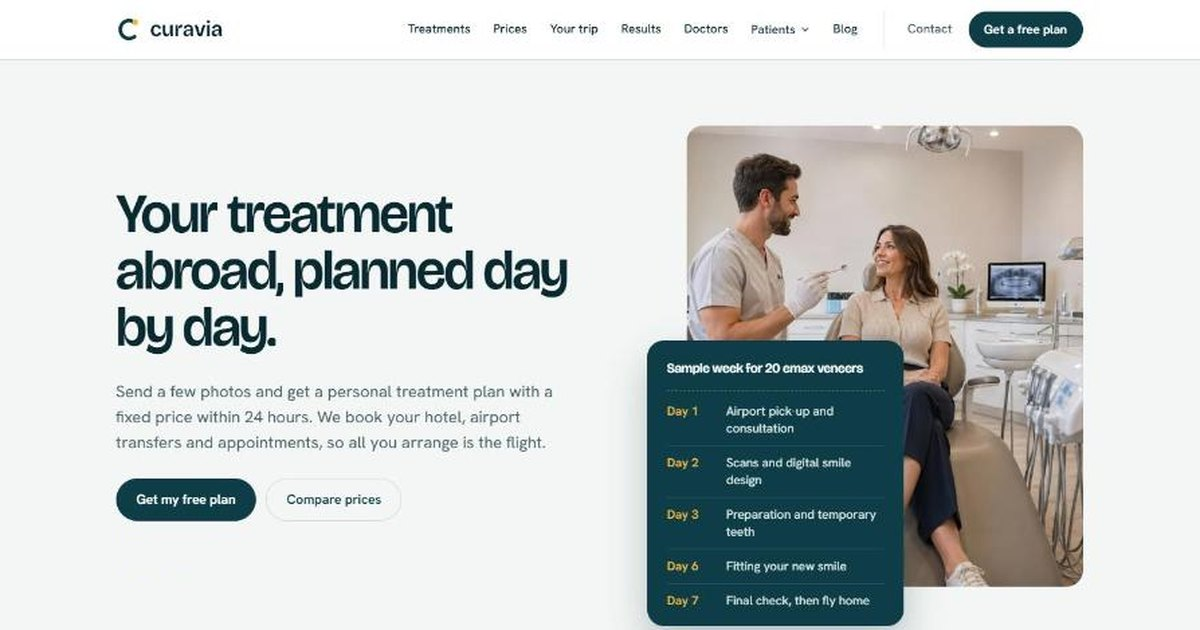
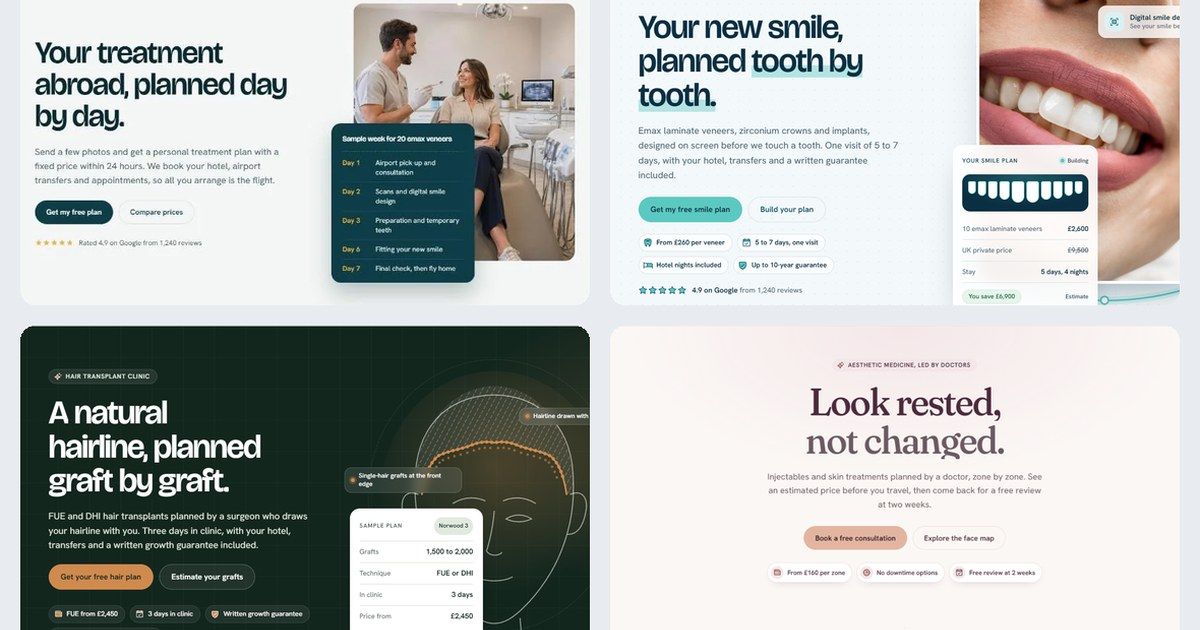
Curavia: four homes, sector themes and tools
Update the Curavia template page (EN and TR) for the Hub, Dental, Hair and
Aesthetic homes: new hero and card images, sections for the theme switch,
smile plan builder, graft estimator and face map, updated facts, included
lists and FAQ, and a new social image. Refresh the Curavia mentions on the
templates hub, Webflow apps and lab pages.

Claude-Session: https://claude.ai/code/session_01XtbaGHy5N635RygHHEY59Z

diff --git a/src/data/templates.js b/src/data/templates.js
@@ -208,27 +208,23 @@ export const templates = [
       tr: 'Curavia: Sağlık Turizmi Klinikleri için Webflow Şablonu'
     },
     seoDesc: {
-      en: 'Curavia is a Webflow template for dental, hair transplant and aesthetic clinics with patients from abroad: 17 pages, 6 CMS collections, prices in GBP, EUR and USD, a trip planner and a treatment finder.',
-      tr: 'Curavia, yurt dışından hasta ağırlayan diş, saç ekimi ve estetik klinikleri için bir Webflow şablonu: 17 sayfa, 6 CMS koleksiyonu, GBP, EUR ve USD fiyatlar, seyahat planı ve tedavi bulucu.'
+      en: 'Webflow template for dental, hair transplant and aesthetic clinics with patients from abroad: four homes, sector colour themes, a smile plan builder, a graft estimator and a face map.',
+      tr: 'Yurt dışından hasta ağırlayan diş, saç ekimi ve estetik klinikleri için Webflow şablonu: dört ana sayfa, sektör renk temaları, gülüş planı, greft hesaplayıcı ve yüz haritası.'
     },
     lead: {
-      en: 'A premium Webflow template for dental, hair transplant and facial aesthetics clinics that treat patients from abroad. It answers what patients ask before they book: what it costs, how many days it takes, what they can do while they heal and what happens if something goes wrong.',
-      tr: 'Yurt dışından hasta ağırlayan diş, saç ekimi ve yüz estetiği klinikleri için premium bir Webflow şablonu. Hastaların karar vermeden önce sorduğu soruları yanıtlar: ne kadar tutar, kaç gün sürer, iyileşirken neler yapılabilir ve bir sorun çıkarsa ne olur.'
+      en: 'A premium Webflow template for dental, hair transplant and facial aesthetics clinics that treat patients from abroad. It answers what patients ask before they book: what it costs, how many days it takes, what they can do while they heal and what happens if something goes wrong. Start from the Hub, or from a Dental, Hair or Aesthetic home with its own colours, content and planning tool.',
+      tr: 'Yurt dışından hasta ağırlayan diş, saç ekimi ve yüz estetiği klinikleri için premium bir Webflow şablonu. Hastaların karar vermeden önce sorduğu soruları yanıtlar: ne kadar tutar, kaç gün sürer, iyileşirken neler yapılabilir ve bir sorun çıkarsa ne olur. Hub ile ya da kendi renkleri, içeriği ve planlama aracı olan Diş, Saç veya Estetik ana sayfasıyla başlayın.'
     },
     facts: {
-      en: ['17 pages', '6 CMS collections', 'Prices in GBP, EUR and USD', 'No custom code'],
-      tr: ['17 sayfa', '6 CMS koleksiyonu', 'GBP, EUR ve USD fiyatlar', 'Özel kod yok']
+      en: ['4 homes and 17 inner pages', '3 sector themes and tools', '6 CMS collections', 'No custom code'],
+      tr: ['4 ana sayfa ve 17 iç sayfa', '3 sektör teması ve aracı', '6 CMS koleksiyonu', 'Özel kod yok']
     },
     highlights: {
-      en: ['Day-by-day trip planner and recovery planner', 'Price tabs in GBP, EUR and USD', 'A treatment finder in three questions', 'Before and after cards that stay blurred until opened'],
-      tr: ['Gün gün seyahat planı ve iyileşme planı', 'GBP, EUR ve USD fiyat sekmeleri', 'Üç soruda tedavi bulucu', 'Açılana kadar bulanık kalan önce ve sonra kartları']
+      en: ['Dental, Hair and Aesthetic homes, each in its own colours', 'Smile plan builder, graft estimator and face map', 'Theme chips that recolour a page in one click', 'Price tabs in GBP, EUR and USD'],
+      tr: ['Kendi renkleriyle Diş, Saç ve Estetik ana sayfaları', 'Gülüş planı, greft hesaplayıcı ve yüz haritası', 'Sayfayı tek tıkla yeniden renklendiren tema çipleri', 'GBP, EUR ve USD fiyat sekmeleri']
     },
     preview: 'https://curavia-56d980.webflow.io',
     statusNote: { en: 'Coming soon to the Webflow Marketplace', tr: "Yakında Webflow Marketplace'te" },
-    next: {
-      en: 'A one-click Dental, Hair or Aesthetic version is being added next.',
-      tr: 'Sırada tek tıkla Diş, Saç ya da Estetik versiyonu var.'
-    },
     previewNote: {
       en: 'Clinic names, doctors, photos, prices, ratings and patient stories in the preview are sample content.',
       tr: 'Önizlemedeki klinik adı, hekimler, fotoğraflar, fiyatlar, puanlar ve hasta hikayeleri örnek içeriktir.'
@@ -236,8 +232,8 @@ export const templates = [
     light: true,
     og: '/images/og/curavia.jpg',
     img: {
-      hero: pic(`${CV}/home.webp`, 760, 500, 'Curavia home page with a day-by-day sample week for treatment abroad', 'Gün gün örnek tedavi haftası gösteren Curavia ana sayfası'),
-      card: pic(`${CV}/treatments.webp`, 760, 420, 'Curavia treatments page with dental, hair and aesthetic categories and starting prices', 'Diş, saç ve estetik kategorileri ve başlangıç fiyatlarıyla Curavia tedaviler sayfası')
+      hero: pic(`${CV}/homes.webp`, 760, 500, 'The four Curavia homes: the Hub, Dental in ocean blue, Hair in forest green and Aesthetic in plum', 'Dört Curavia ana sayfası: Hub, okyanus mavisi Diş, orman yeşili Saç ve mürdüm rengi Estetik'),
+      card: pic(`${CV}/homes-card.webp`, 760, 420, 'The four Curavia homes for multi-specialty, dental, hair and aesthetic clinics', 'Çok branşlı, diş, saç ve estetik klinikleri için dört Curavia ana sayfası')
     },
     overview: {
       h: { en: 'Built around the questions patients ask', tr: 'Hastaların sorduğu sorular üzerine kurulu' },
@@ -247,6 +243,9 @@ export const templates = [
       },
       items: {
         en: [
+          ['Four homes, one template', 'A Hub for clinics with several specialties, plus Dental, Hair and Aesthetic homes, each with its own layout, photos, copy and treatments.'],
+          ['Sector colours in one click', 'Each specialty has its own palette through Webflow variable modes. Theme chips on the Hub recolour the whole page, menu and footer included.'],
+          ['A planning tool per specialty', 'A smile plan builder for dental, a Norwood graft estimator for hair, and a face map with a downtime chart for aesthetics.'],
           ['Prices in three currencies', 'Price tables switch between pounds, euros and dollars, with the typical price at home next to yours.'],
           ['Day-by-day trip planner', 'A sample week from airport pick-up to the flight home, with clinic visits, time in the chair and free days.'],
           ['Recovery planner', 'What patients can do on each day after treatment, from swimming and sunbathing to flying home, for dental work and hair transplants.'],
@@ -258,6 +257,9 @@ export const templates = [
           ['No custom code', 'Every animation uses native Webflow interactions and every colour comes from Webflow variables.']
         ],
         tr: [
+          ['Dört ana sayfa, tek şablon', 'Birden fazla alanda çalışan klinikler için bir Hub; ayrıca her biri kendi düzeni, fotoğrafları, metni ve tedavileriyle Diş, Saç ve Estetik ana sayfaları.'],
+          ['Tek tıkla sektör renkleri', "Her alanın Webflow değişken modlarıyla kendi paleti var. Hub'daki tema çipleri menü ve footer dahil bütün sayfayı yeniden renklendirir."],
+          ['Her alana bir planlama aracı', 'Diş için gülüş planı oluşturucu, saç için Norwood greft hesaplayıcı, estetik için iyileşme süresi grafiğiyle yüz haritası.'],
           ['Üç para biriminde fiyat', 'Fiyat tabloları sterlin, euro ve dolar arasında geçiş yapar; hastanın kendi ülkesindeki tipik fiyat yanında görünür.'],
           ['Gün gün seyahat planı', 'Havalimanı karşılamasından dönüş uçuşuna örnek bir hafta: klinik ziyaretleri, koltukta geçen süre ve serbest günler.'],
           ['İyileşme planı', 'Tedaviden sonraki her gün neler yapılabileceği: yüzmeden güneşlenmeye, eve dönüş uçuşuna kadar; diş tedavisi ve saç ekimi için ayrı ayrı.'],
@@ -271,6 +273,42 @@ export const templates = [
       }
     },
     sections: [
+      {
+        img: pic(`${CV}/hub-themes.webp`, 760, 514, 'Choose your clinic band with dental, hair and aesthetic cards and theme chips', 'Diş, saç ve estetik kartları ve tema çipleriyle Kliniğini seç bandı'),
+        h: { en: 'Pick a specialty and the site follows', tr: 'Alanı seçin, site ona uysun' },
+        p: {
+          en: 'The Hub opens with a Choose your clinic band: three cards in their own colours, each with a starting price and the tools of that specialty. Theme chips recolour the page in one click, and a Homes menu leads to each specialty home.',
+          tr: 'Hub, Kliniğini seç bandıyla açılır: her biri kendi renginde, başlangıç fiyatı ve o alanın araçlarıyla üç kart. Tema çipleri sayfayı tek tıkla yeniden renklendirir, Homes menüsü her alanın ana sayfasına götürür.'
+        },
+        list: {
+          en: ['Hub: petrol and citrine', 'Dental: ocean blue and aqua', 'Hair: forest green and copper', 'Aesthetic: plum and rose gold, with serif headings'],
+          tr: ['Hub: petrol ve citrine', 'Diş: okyanus mavisi ve aqua', 'Saç: orman yeşili ve bakır', 'Estetik: mürdüm ve rose gold, serif başlıklarla']
+        }
+      },
+      {
+        img: pic(`${CV}/smile-builder.webp`, 760, 493, 'Smile plan builder result for 20 emax laminate veneers with price, UK price, saving and stay', '20 emax laminate veneer için fiyat, İngiltere fiyatı, tasarruf ve kalış süresiyle gülüş planı sonucu'),
+        h: { en: 'A smile plan in two taps', tr: 'İki dokunuşta gülüş planı' },
+        p: {
+          en: 'On the Dental home, visitors pick emax laminate veneers, zirconium crowns or emax crowns, then 6, 8, 10, 16 or 20 teeth. The result shows the price next to the typical UK price, the saving, the days in clinic and the hotel nights, with a drawing of the teeth in the plan. A shade and style picker sits next to it.',
+          tr: 'Diş ana sayfasında ziyaretçi emax laminate veneer, zirkonyum kron ya da emax kron seçer, ardından 6, 8, 10, 16 veya 20 diş. Sonuçta fiyat, İngiltere fiyatı, tasarruf, klinikte geçen gün ve otel geceleri, plandaki dişlerin çizimiyle birlikte görünür. Yanında renk ve stil seçici yer alır.'
+        }
+      },
+      {
+        img: pic(`${CV}/graft-estimator.webp`, 760, 534, 'Norwood graft estimator with Norwood 5 selected and its graft range, sessions and price', 'Norwood 5 seçiliyken greft aralığı, seans ve fiyat gösteren Norwood greft hesaplayıcı'),
+        h: { en: 'A graft estimate before the first photo', tr: 'İlk fotoğraftan önce greft tahmini' },
+        p: {
+          en: 'The Hair home has a Norwood estimator: eight stages, each with a typical graft range, sessions, technique, price and a UK comparison. A hairline designer shows four shapes on a face, and a timeline walks through twelve months of growth.',
+          tr: 'Saç ana sayfasında Norwood hesaplayıcı var: her biri tipik greft aralığı, seans, teknik, fiyat ve İngiltere karşılaştırması olan sekiz evre. Saç çizgisi tasarımcısı yüz üzerinde dört şekil gösterir, zaman çizelgesi on iki aylık büyümeyi anlatır.'
+        }
+      },
+      {
+        img: pic(`${CV}/face-map.webp`, 760, 476, 'Face map with the lips zone selected, showing lip filler price, downtime and how long it lasts', 'Dudak bölgesi seçili yüz haritası: dudak dolgusu fiyatı, iyileşme süresi ve kalıcılık'),
+        h: { en: 'A face map for aesthetics', tr: 'Estetik için yüz haritası' },
+        p: {
+          en: 'On the Aesthetic home, visitors tap one of ten zones to see the usual treatment, an estimated price, the downtime, how long results last and the session time. A downtime chart compares eight treatments, so patients can plan photos, flights and events around them.',
+          tr: 'Estetik ana sayfasında ziyaretçi on bölgeden birine dokunur ve olağan tedaviyi, tahmini fiyatı, iyileşme süresini, sonucun ne kadar sürdüğünü ve seans süresini görür. İyileşme süresi grafiği sekiz tedaviyi karşılaştırır; hasta fotoğraf, uçuş ve etkinlik planını buna göre yapar.'
+        }
+      },
       {
         img: pic(`${CV}/finder.webp`, 760, 520, 'Treatment finder results showing three matches with prices and days', 'Fiyat ve gün sayısıyla üç öneri gösteren tedavi bulucu sonuçları'),
         h: { en: 'A treatment finder in three questions', tr: 'Üç soruda tedavi bulucu' },
@@ -321,15 +359,15 @@ export const templates = [
       {
         h: { en: 'What is in the template', tr: 'Şablonda neler var' },
         items: {
-          en: ['17 pages, from Home and Prices to Your Trip, Guarantee and Refer a Friend', '6 CMS collections, each with its template page', 'Style guide, licences and changelog pages', 'A getting started page that lists what to replace before launch'],
-          tr: ['Ana sayfa ve fiyatlardan seyahat planı, garanti ve tavsiye programına 17 sayfa', 'Her biri kendi şablon sayfasıyla 6 CMS koleksiyonu', 'Stil rehberi, lisanslar ve sürüm notları sayfaları', 'Yayına almadan önce değiştirilecekleri listeleyen bir başlangıç sayfası']
+          en: ['4 homes: Hub, Dental, Hair and Aesthetic', '17 inner pages, from Prices and Your Trip to Guarantee and Refer a Friend', '6 CMS collections, each with its template page', 'Style guide, licences and changelog pages', 'An instructions page with a 3-step guide for a one-specialty clinic and what to replace before launch'],
+          tr: ['4 ana sayfa: Hub, Diş, Saç ve Estetik', 'Fiyatlar ve seyahat planından garanti ve tavsiye programına 17 iç sayfa', 'Her biri kendi şablon sayfasıyla 6 CMS koleksiyonu', 'Stil rehberi, lisanslar ve sürüm notları sayfaları', 'Tek alanlı klinik için 3 adımlık rehber ve yayından önce değiştirilecekleri listeleyen talimatlar sayfası']
         }
       },
       {
         h: { en: 'Built to hand over', tr: 'Teslime hazır' },
         items: {
-          en: ['Native Webflow interactions only, with no custom code', 'Every colour from nine Base variables', 'Designed for desktop, tablet and phone', 'Sample content in every collection, ready to replace'],
-          tr: ["Sadece Webflow'un kendi etkileşimleri, özel kod yok", 'Tüm renkler dokuz Base değişkeninden', 'Masaüstü, tablet ve telefon için tasarlandı', 'Her koleksiyonda değiştirmeye hazır örnek içerik']
+          en: ['Native Webflow interactions only, with no custom code', 'Every colour from nine Base variables, with a mode for each specialty', 'A WhatsApp button on every page', 'Designed for desktop, tablet and phone', 'Sample content in every collection, ready to replace'],
+          tr: ["Sadece Webflow'un kendi etkileşimleri, özel kod yok", 'Tüm renkler dokuz Base değişkeninden, her alan için ayrı modla', 'Her sayfada WhatsApp düğmesi', 'Masaüstü, tablet ve telefon için tasarlandı', 'Her koleksiyonda değiştirmeye hazır örnek içerik']
         }
       }
     ],
@@ -337,14 +375,16 @@ export const templates = [
       en: [
         ['When can I get Curavia?', 'Curavia is coming soon to the Webflow Marketplace. You can explore the full live preview today. Write to info@silitlabs.com if you would like to hear when it is listed.'],
         ['Who is it for?', 'Clinics that treat international patients for dental work, hair transplants or facial aesthetics, and the designers and agencies who build their sites.'],
-        ['Can I use it for only one specialty?', 'Yes. Remove the treatments you do not offer from the CMS and the pages follow. A one-click Dental, Hair or Aesthetic version is being added next.'],
+        ['Can I use it for only one specialty?', 'Yes. Make the Dental, Hair or Aesthetic home your home page and follow the three steps on the Instructions page: set the home, apply its theme to every page and remove what you do not offer. Colours, fonts and tools follow.'],
+        ['Can visitors switch between specialties?', 'On the Hub, theme chips recolour the page in one click and the Homes menu links to each specialty home. A clinic with one specialty can remove both.'],
         ['Is the content in the preview real?', 'No. Clinic names, doctors, photos, prices, ratings and patient stories are sample content for you to replace with your own. Have medical and guarantee texts checked by your clinicians before launch.'],
         ['Do I need to write code?', 'No. Everything is built with native Webflow elements, CMS collections and interactions, so you edit it all in the Designer and the Editor.']
       ],
       tr: [
         ["Curavia'yı ne zaman alabilirim?", "Curavia yakında Webflow Marketplace'te. Canlı önizlemenin tamamını bugün inceleyebilirsiniz. Listelendiğinde haber almak isterseniz info@silitlabs.com adresine yazın."],
         ['Kimler için?', 'Diş tedavisi, saç ekimi ya da yüz estetiği için yurt dışından hasta ağırlayan klinikler ve bu kliniklerin sitelerini kuran tasarımcılar ve ajanslar için.'],
-        ['Sadece tek bir alan için kullanabilir miyim?', "Evet. Sunmadığınız tedavileri CMS'ten kaldırın, sayfalar buna göre güncellenir. Sırada tek tıkla Diş, Saç ya da Estetik versiyonu var."],
+        ['Sadece tek bir alan için kullanabilir miyim?', 'Evet. Diş, Saç ya da Estetik ana sayfasını ana sayfanız yapın ve talimatlar sayfasındaki üç adımı izleyin: ana sayfayı ayarlayın, temasını tüm sayfalara uygulayın ve sunmadıklarınızı kaldırın. Renkler, fontlar ve araçlar buna uyar.'],
+        ['Ziyaretçiler alanlar arasında geçiş yapabilir mi?', "Hub'da tema çipleri sayfayı tek tıkla yeniden renklendirir, Homes menüsü her alanın ana sayfasına bağlanır. Tek alanda çalışan klinik ikisini de kaldırabilir."],
         ['Önizlemedeki içerik gerçek mi?', 'Hayır. Klinik adı, hekimler, fotoğraflar, fiyatlar, puanlar ve hasta hikayeleri kendi içeriğinizle değiştireceğiniz örnek içeriktir. Tıbbi ve garanti metinlerini yayına almadan önce hekimlerinize kontrol ettirin.'],
         ['Kod yazmam gerekiyor mu?', "Hayır. Her şey Webflow'un kendi öğeleri, CMS koleksiyonları ve etkileşimleriyle kuruldu; tamamını Designer ve Editor'da düzenlersiniz."]
       ]
